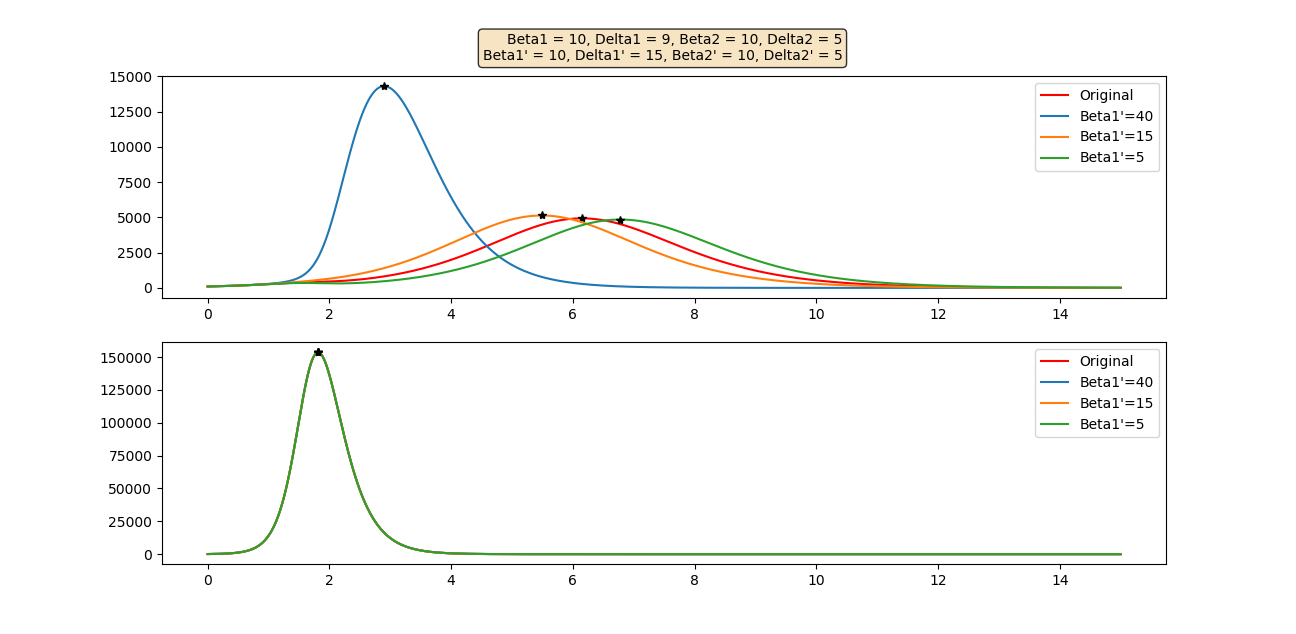
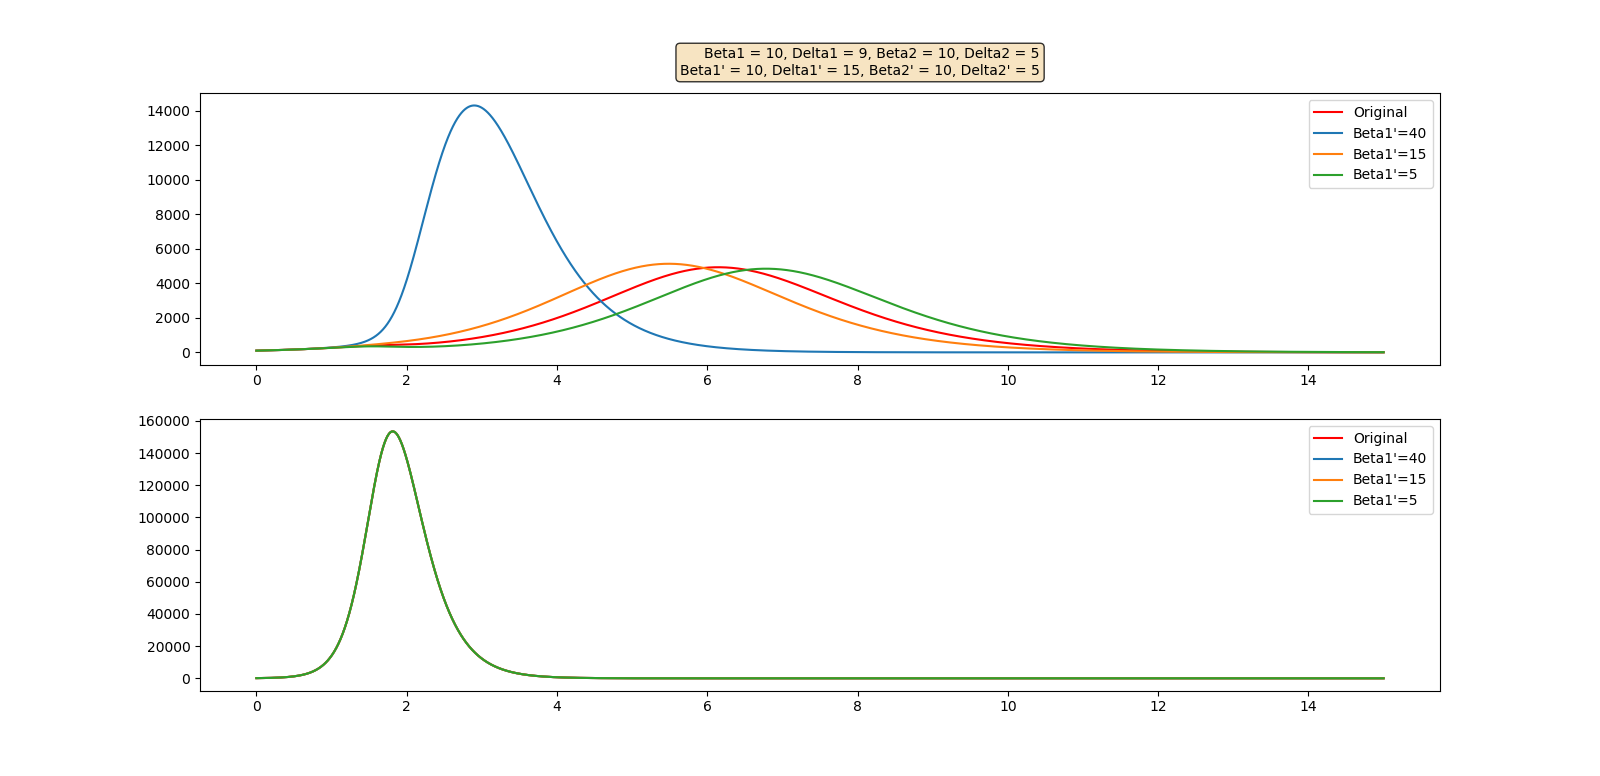
Update plot fixed diseases

diff --git a/analysis.py b/analysis.py
@@ -263,8 +263,8 @@ def getAnalysis():
 
     siirSim_orig = modelAnalysis(SIIR0, params, t_sim)
 
-    siirSim_orig.plotChange(betaprime_arr=np.array([5, 15, 40]), fixed=1, peak=True)
-    siirSim_orig.plotChange(betaprime_arr=np.array([5, 15, 40]), fixed=2, peak=True)
+    siirSim_orig.plotChange(betaprime_arr=np.array([5, 15, 40]), fixed=1, peak=False)
+    siirSim_orig.plotChange(betaprime_arr=np.array([5, 15, 40]), fixed=2, peak=False)
     #siirSim_orig.plotPeak2D(beta1prime_arr=np.arange(0, 40, 2), beta2prime_arr=np.arange(0, 40, 2), savefig=False)
     #siirSim_orig.plotInfected2D(beta1prime_arr=np.arange(0, 40, 2), beta2prime_arr=np.arange(0, 40, 2), savefig=False)
 
